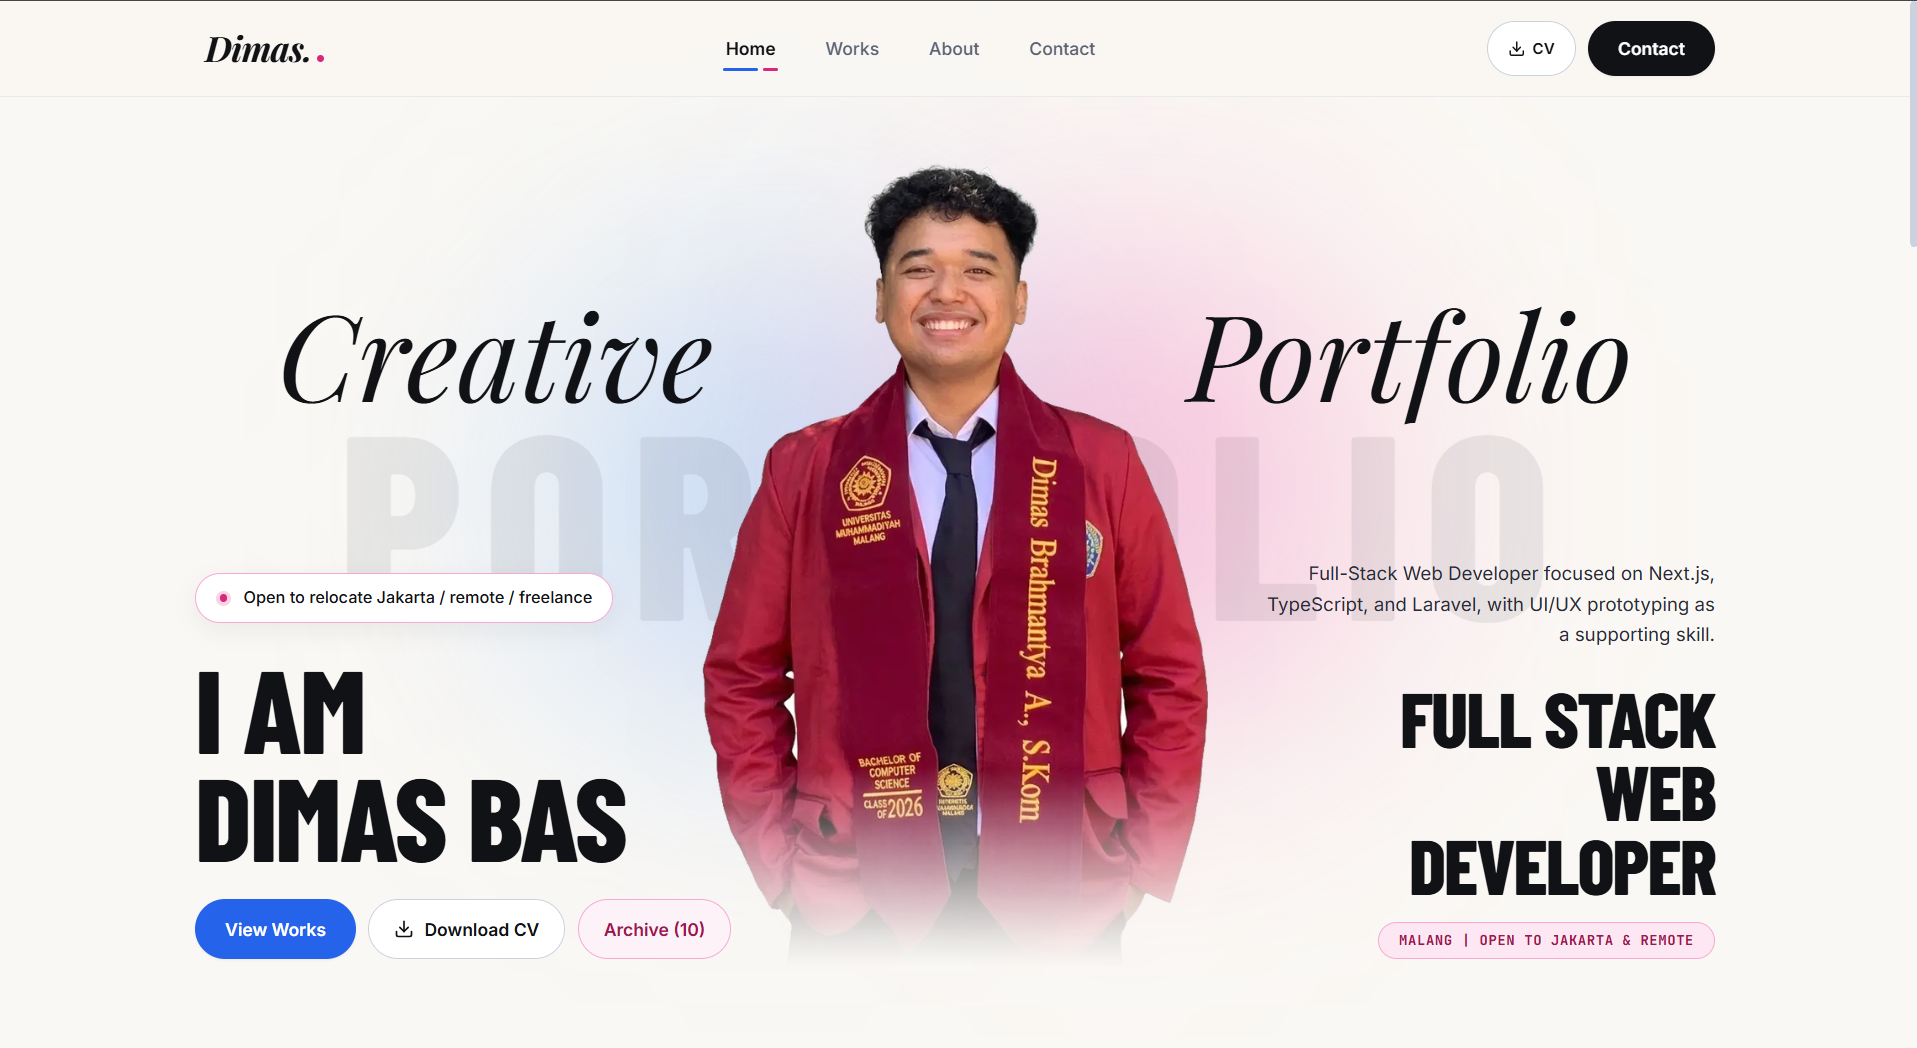
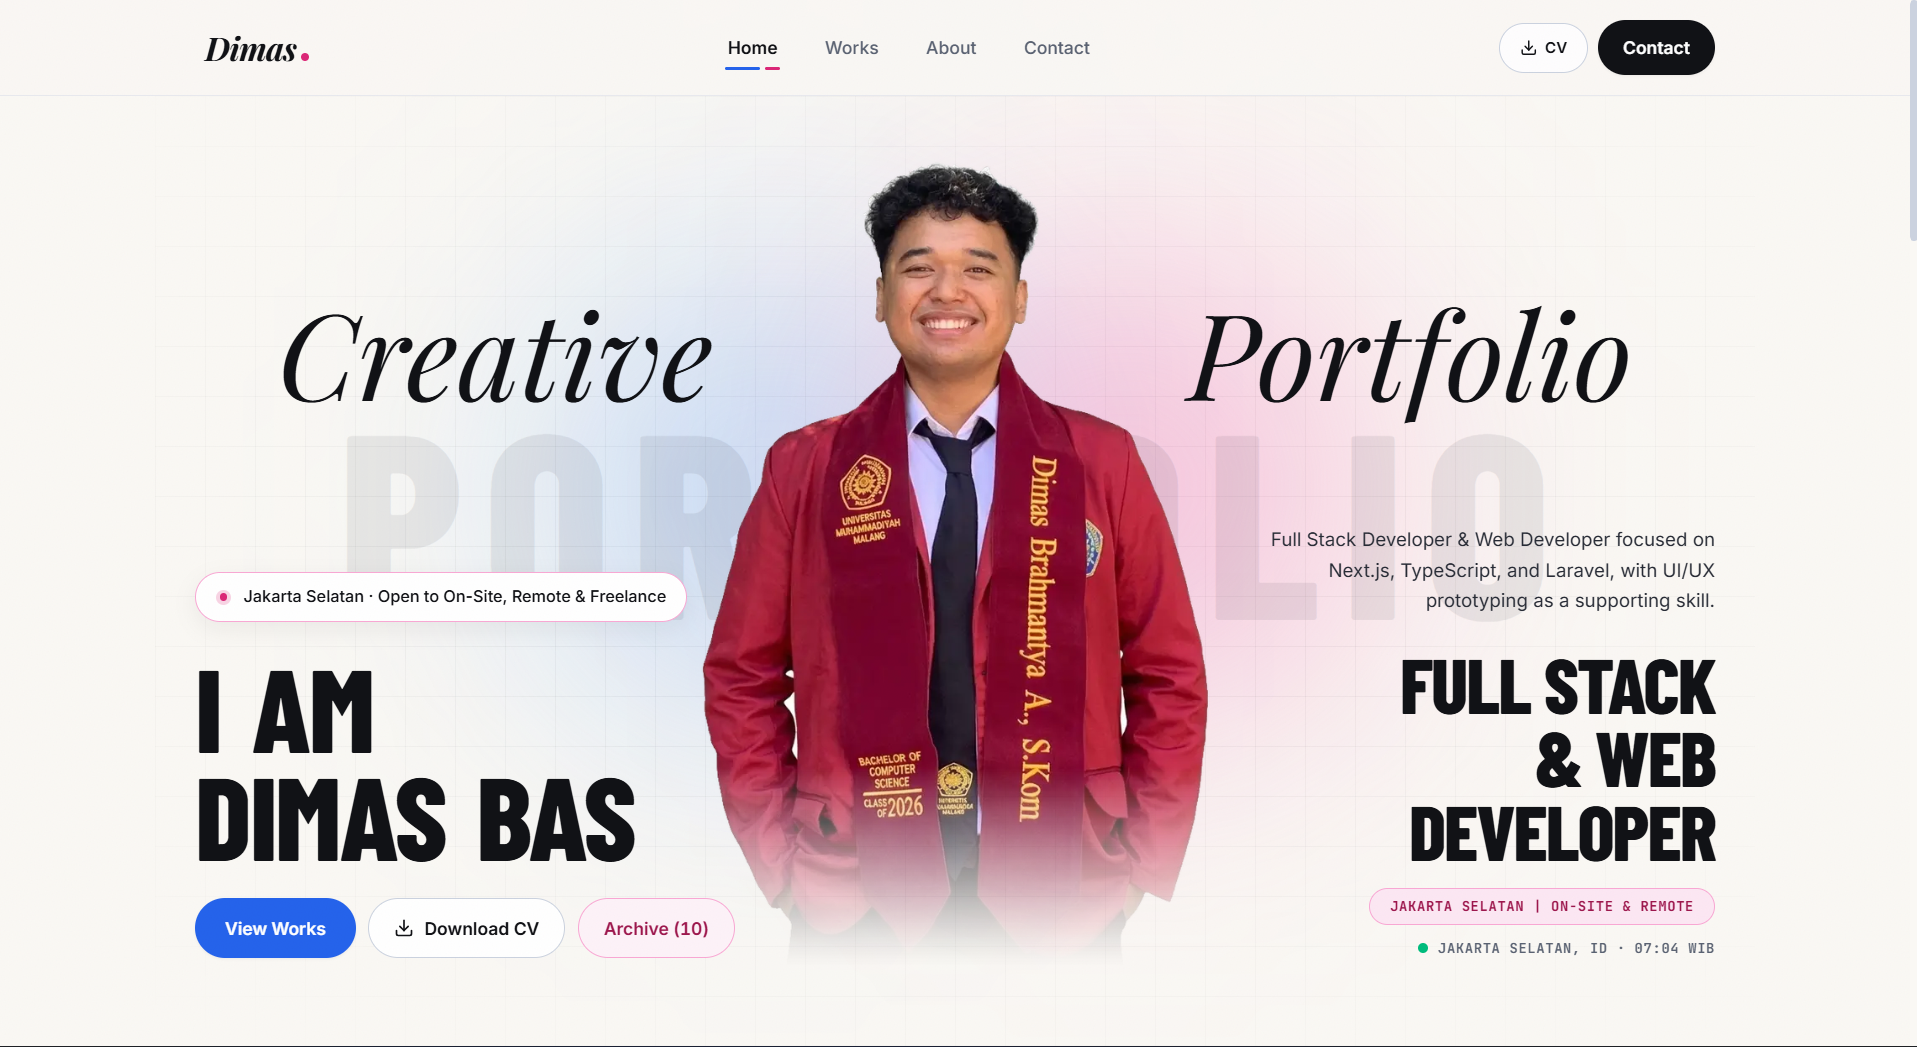
litttle update for page display

diff --git a/app/layout.tsx b/app/layout.tsx
@@ -30,17 +30,49 @@ const jetbrainsMono = JetBrains_Mono({
   subsets: ["latin"],
 });
 
+const SITE_URL = "https://dimasbas.vercel.app";
+const SITE_TITLE =
+  "Dimas Brahmantya Aryasena | Full Stack Developer & Web Developer";
+const SITE_DESCRIPTION =
+  "Portfolio of Dimas Brahmantya Aryasena, Full Stack Developer & Web Developer (Next.js, Laravel, TypeScript) based in South Jakarta, with UI/UX prototyping as a supporting skill. Open to on-site Jakarta, remote, and freelance opportunities.";
+
 export const metadata: Metadata = {
-  title: "Dimas Brahmantya Aryasena | Full Stack Developer & Web Developer",
-  description:
-    "Portfolio of Dimas Brahmantya Aryasena, Full Stack Developer & Web Developer (Next.js, Laravel, TypeScript) based in South Jakarta, with UI/UX prototyping as a supporting skill. Open to on-site Jakarta, remote, and freelance opportunities.",
+  metadataBase: new URL(SITE_URL),
+  title: SITE_TITLE,
+  description: SITE_DESCRIPTION,
+  alternates: {
+    canonical: "/",
+  },
+  openGraph: {
+    type: "website",
+    locale: "id_ID",
+    url: SITE_URL,
+    siteName: "Dimas Brahmantya Aryasena Portfolio",
+    title: SITE_TITLE,
+    description: SITE_DESCRIPTION,
+    images: [
+      {
+        url: "/og-image.png",
+        width: 1917,
+        height: 1047,
+        alt: "Dimas Brahmantya Aryasena — Full Stack & Web Developer Creative Portfolio",
+        type: "image/png",
+      },
+    ],
+  },
+  twitter: {
+    card: "summary_large_image",
+    title: SITE_TITLE,
+    description: SITE_DESCRIPTION,
+    images: ["/og-image.png"],
+  },
 };
 
 const jsonLdPerson = {
   "@context": "https://schema.org",
   "@type": "Person",
   name: "Dimas Brahmantya Aryasena",
-  url: "https://dimasbrahmantyaaryasena.vercel.app",
+  url: SITE_URL,
   sameAs: [
     "https://github.com/DimasBrahmantya",
     "https://www.linkedin.com/in/dimas-brahmantya-aryasena-169a51174/",
@@ -63,7 +95,7 @@ const jsonLdWebSite = {
   "@context": "https://schema.org",
   "@type": "WebSite",
   name: "Dimas Brahmantya Aryasena Portfolio",
-  url: "https://dimasbrahmantyaaryasena.vercel.app",
+  url: SITE_URL,
   description:
     "Built and deployed web applications, backend systems, and UI/UX design case studies by Dimas Brahmantya Aryasena.",
 };
@@ -72,7 +104,7 @@ const jsonLdProfilePage = {
   "@context": "https://schema.org",
   "@type": "ProfilePage",
   name: "Creative & Engineering Portfolio: Dimas Brahmantya Aryasena",
-  url: "https://dimasbrahmantyaaryasena.vercel.app",
+  url: SITE_URL,
   mainEntity: {
     "@type": "Person",
     name: "Dimas Brahmantya Aryasena",
